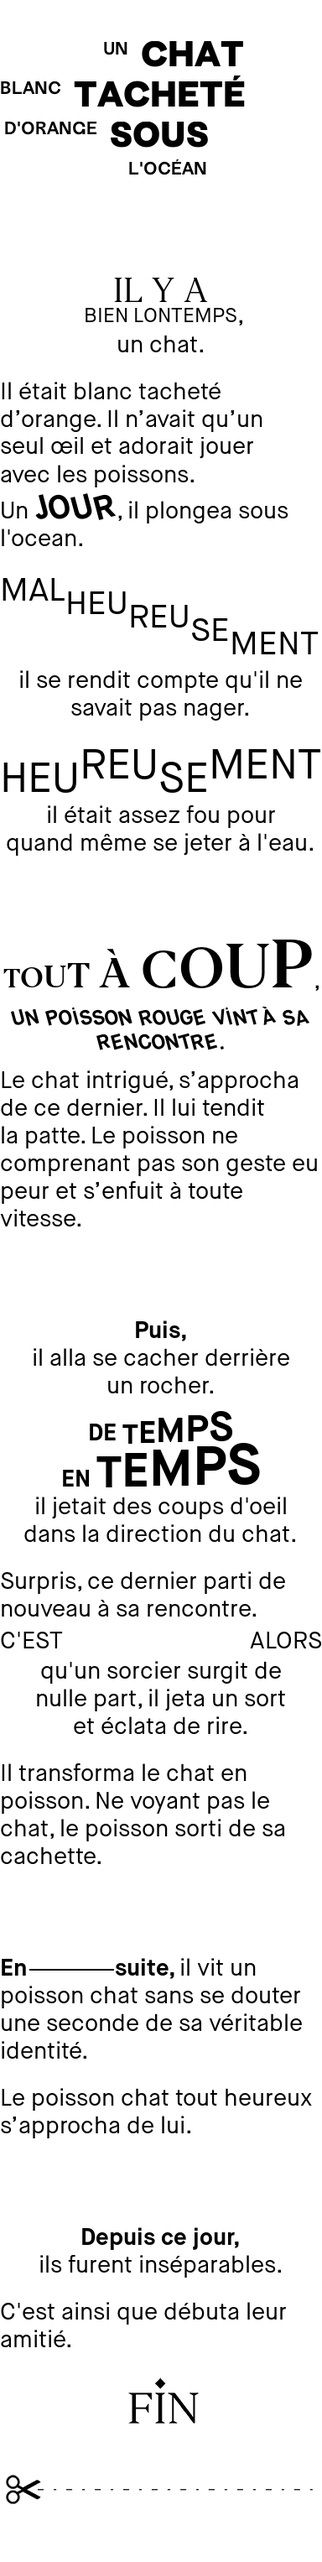
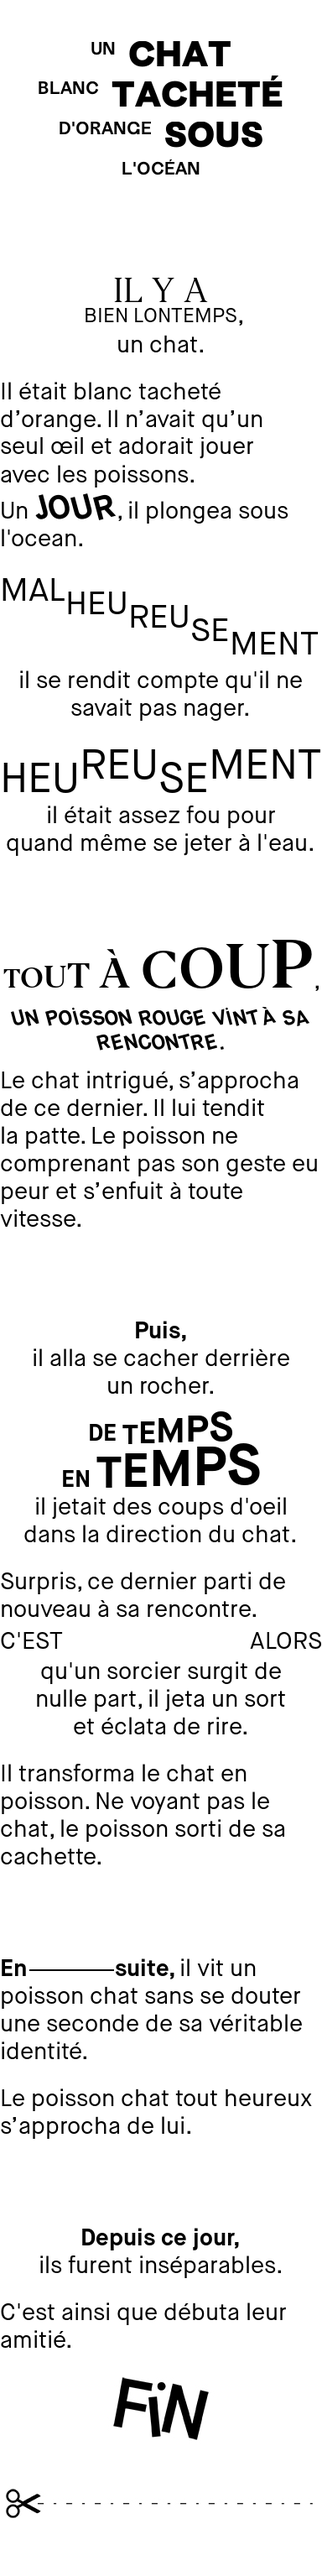
fix(title) : center title

diff --git a/effects.py b/effects.py
@@ -130,22 +130,25 @@ def two_fonts_title(width, title, regular_font, bold_font, spacing, text_color, 
         
     i = 0
     while i < len(title_parts):
-            
+        
         # get size
         title_parts[i] = title_parts[i].upper()
         small_custom_width, custom_height = text_proto_regular.getsize(title_parts[i]) # get text width
-                
+        
         if i + 1 < len(title_parts):
             title_parts[i + 1] = title_parts[i + 1].upper()
             large_custom_width, custom_height = text_proto_bold.getsize(title_parts[i+1]) # get text width
-                
-        total_left = small_custom_width + 15 + large_custom_width
-        random_left = randint(0, width - total_left)
+            total_left = small_custom_width + 15 + large_custom_width
+        else:
+            total_left = small_custom_width
+
+        center_left = (width - total_left) / 2
+        
             
         # draw
-        if context : context.text((random_left,top), title_parts[i], fill=text_color, font=text_proto_regular)
+        if context : context.text((center_left,top), title_parts[i], fill=text_color, font=text_proto_regular)
         if i + 1 < len(title_parts):
-            if context : context.text((random_left + small_custom_width + 15,top), title_parts[i+1], fill=text_color, font=text_proto_bold)
+            if context : context.text((center_left + small_custom_width + 15,top), title_parts[i+1], fill=text_color, font=text_proto_bold)
                 
         top += spacing  + height_spacing
         effect_height += spacing  + height_spacing
